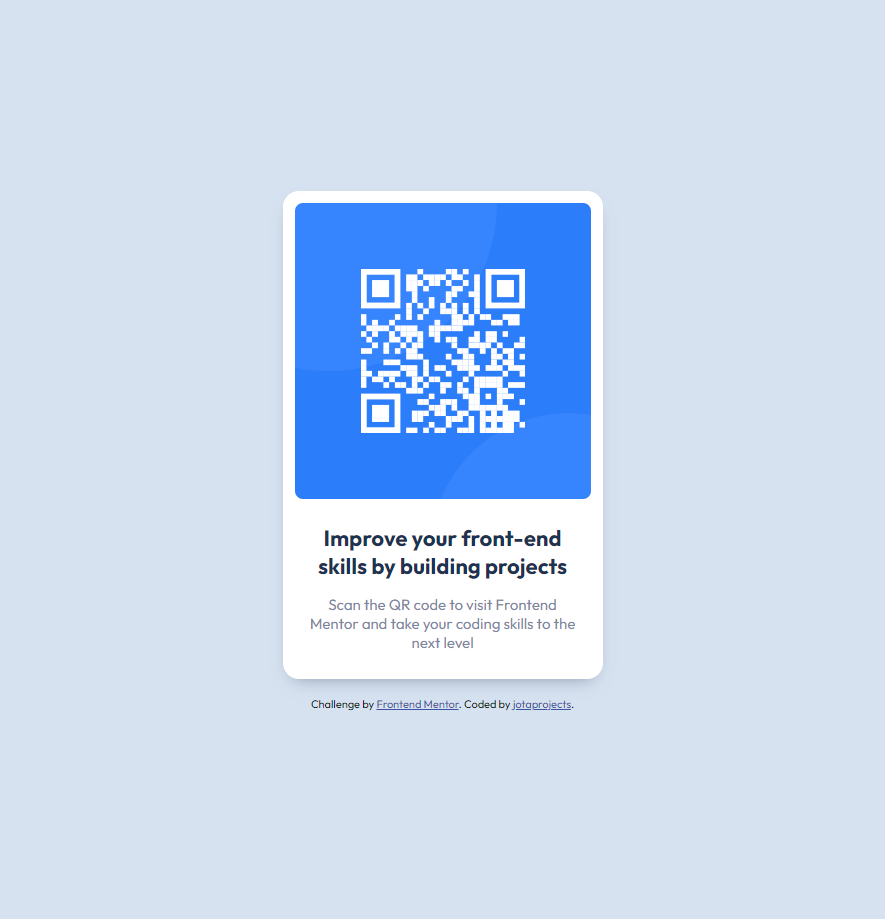
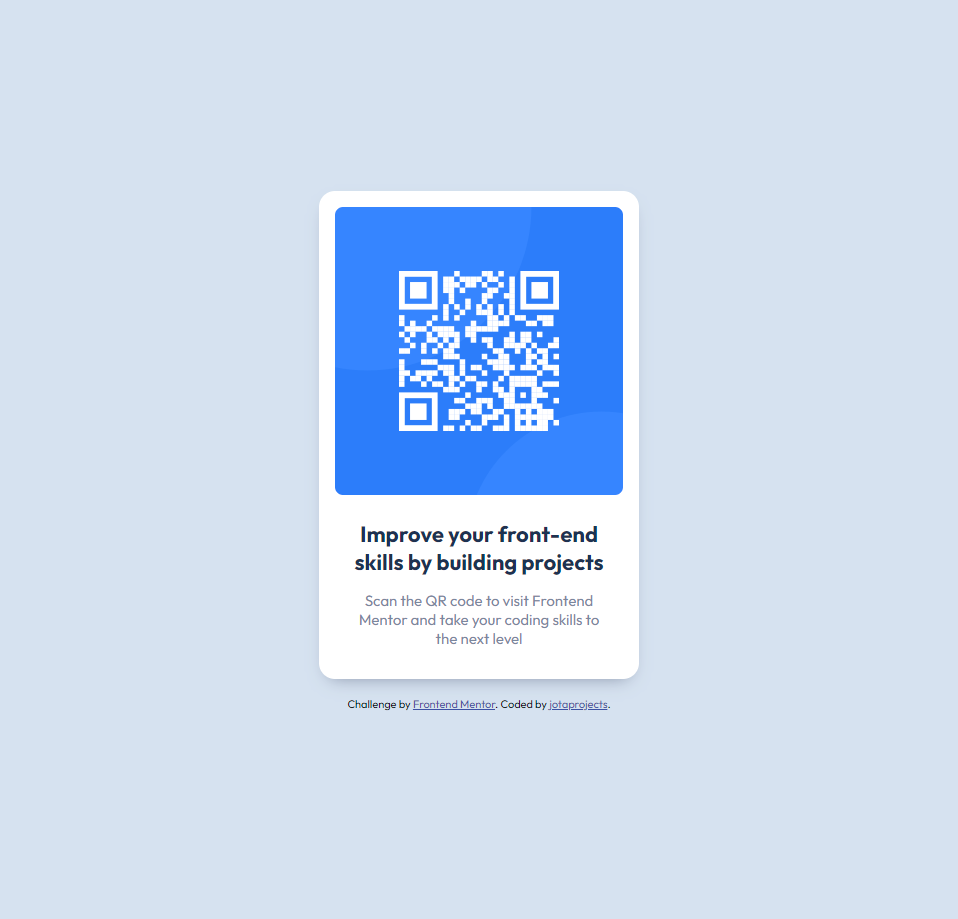
Update css, markup and screenshot

Changed region(s): [[0.3051, 0.2133, 0.7017, 0.7312], [0.3966, 0.2742, 0.6102, 0.4875], [0.3661, 0.7617, 0.6407, 0.7922]]

diff --git a/index.html b/index.html
@@ -14,21 +14,21 @@
   <title>Frontend Mentor | QR code component</title>
 </head>
 <body>
-  <div class="qr-comp">
+  <main class="qr-comp">
     <img src="images/image-qr-code.png" alt="" class="qr-comp__img">
     <div class="qr-comp__content">
-      <p class="qr-comp__headline">
+      <h1 class="qr-comp__headline">
         Improve your front-end skills by building projects
-      </p>
+      </h1>
       <p class="qr-comp__secondary">
         Scan the QR code to visit Frontend Mentor and take your coding skills to the next level
       </p>
     </div>
-  </div>
+  </main>
 
-  <div class="attribution">
+  <footer class="attribution">
     Challenge by <a href="https://www.frontendmentor.io?ref=challenge" target="_blank">Frontend Mentor</a>. 
     Coded by <a href="https://jotaprojects.se">jotaprojects</a>.
-  </div>
+  </footer>
 </body>
 </html>

diff --git a/styles.css b/styles.css
@@ -16,7 +16,7 @@ body {
   box-shadow: 0 8px 18px -10px hsl(220, 15%, 55%);
   box-sizing: border-box;
   margin: 0 auto;
-  padding: 1.2em;
+  padding: 1.6em;
   text-align: center;
   max-width: 320px;
 }
@@ -27,7 +27,7 @@ body {
 }
 
 .qr-comp__content {
-  padding: 0 1em;
+  padding: 0 1.4em;
 }
 
 .qr-comp__headline {
